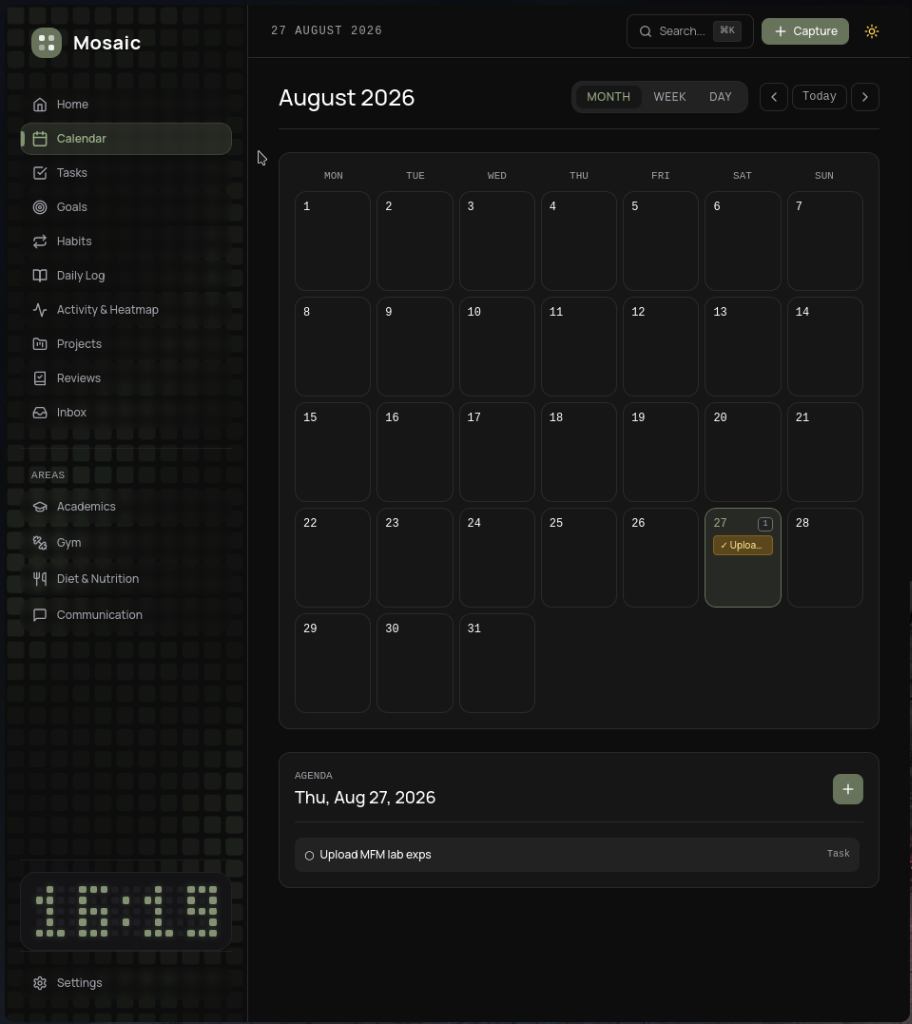
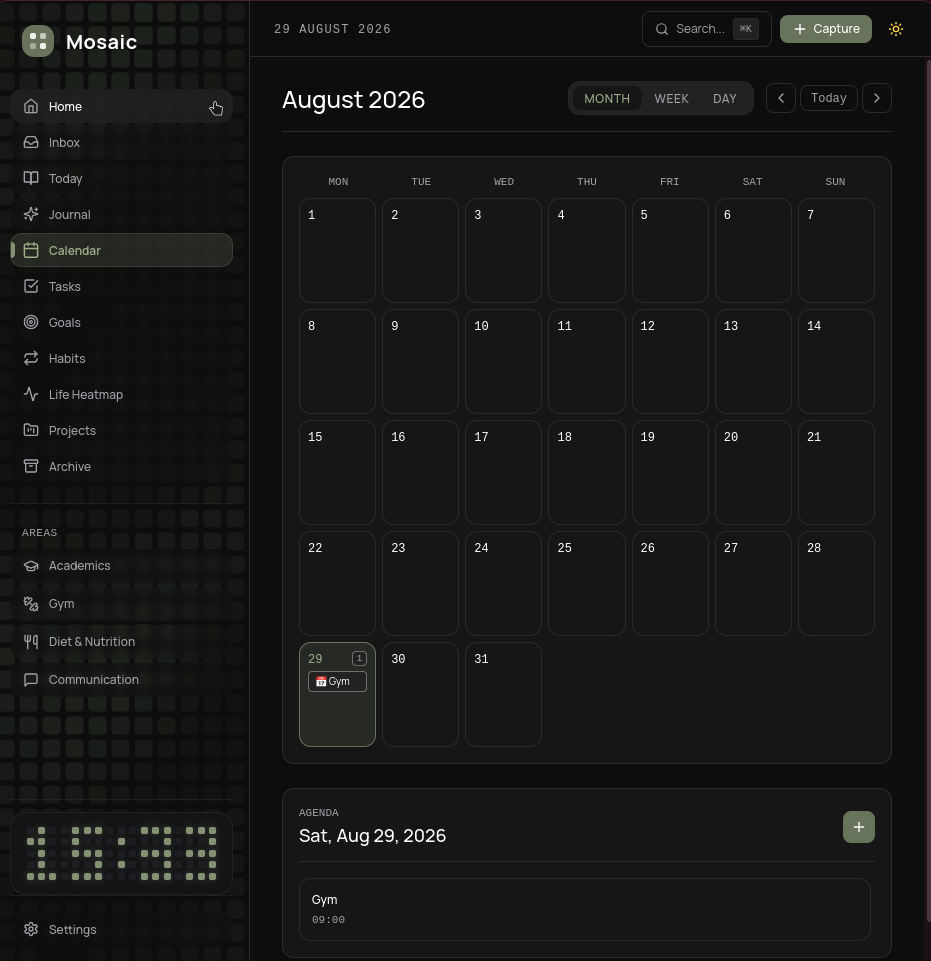
docs: update README.md with fresh UI screenshots

diff --git a/README.md b/README.md
@@ -12,17 +12,17 @@
 
 ## Screenshots
 
-| Home Dashboard | Calendar View |
+| Home Dashboard | Journal & Markdown Studio |
 | :---: | :---: |
-| ![Dashboard](./public/screenshots/dashboard.png) | ![Calendar](./public/screenshots/calendar.png) |
+| ![Dashboard](./public/screenshots/dashboard.png) | ![Journal](./public/screenshots/journal.png) |
 
-| Habit Tracker | Daily Log & Reflection |
+| Calendar View | Gym & Workout Studio |
 | :---: | :---: |
-| ![Habits](./public/screenshots/habits.png) | ![Daily Log](./public/screenshots/daily-log.png) |
+| ![Calendar](./public/screenshots/calendar.png) | ![Gym](./public/screenshots/gym.png) |
 
-| Settings & Security |
+| Activity Heatmap |
 | :---: |
-| ![Settings](./public/screenshots/settings.png) |
+| ![Heatmap](./public/screenshots/heatmap.png) |
 
 ---
 
